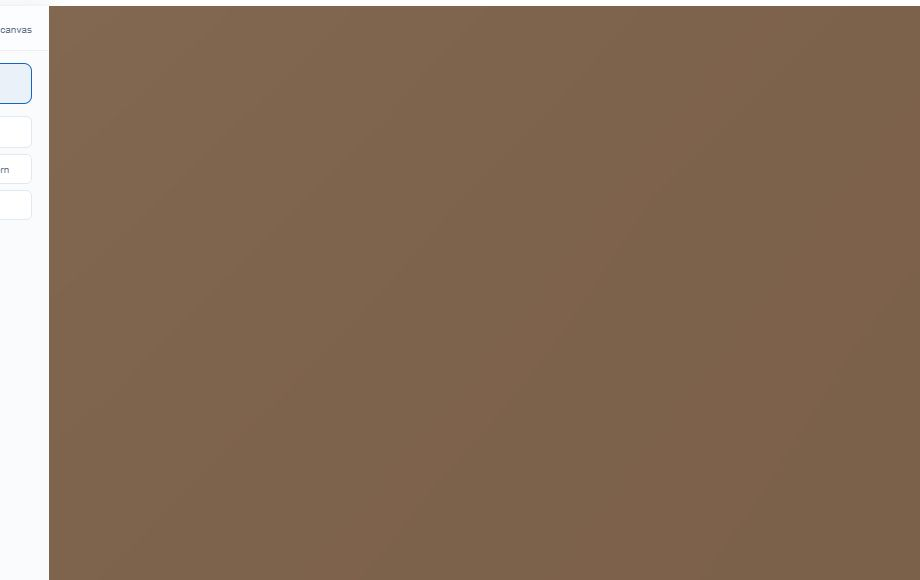
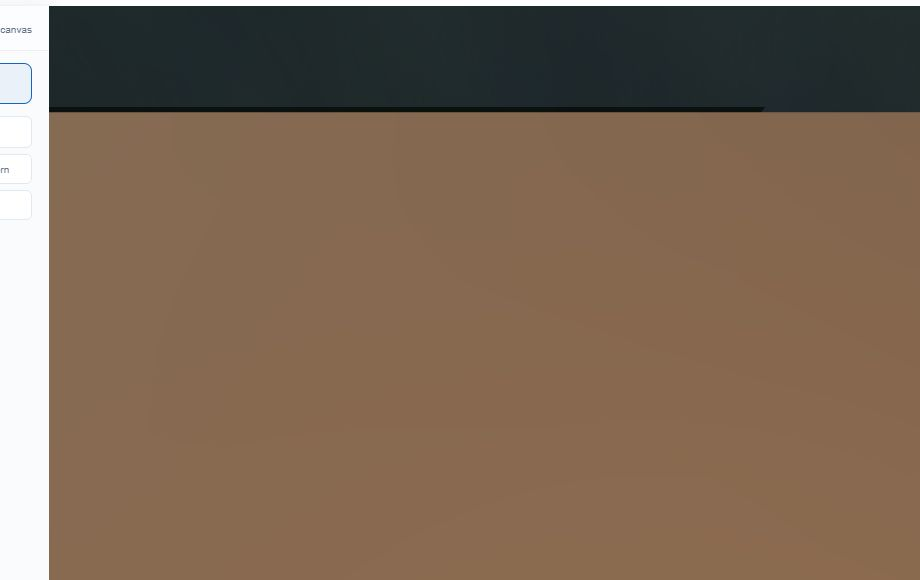
Fix camera right-click brown/blue screen bug + strengthen G15 gate
CameraFloorGuard now has 4 layers of defense:
1. Position Y >= 0.5 (existing)
2. Target Y >= 0.3 (raised from 0.0)
3. Viewing angle <= 70° downward (new — prevents ground-filling viewport)
4. Target XZ radius <= 40 from origin (new — prevents TRUCK panning out of scene)
Also reduced truckSpeed from 2.0 to 1.0 to limit pan aggression.

G15 gate now samples viewport pixels via readPixels to detect uniform
color (brown/blue screen) — passes only when multiple colors are visible.

Changed region(s): [[0.0304, 0.0, 1.0, 0.2172]]

diff --git a/src/components/three/Scene.tsx b/src/components/three/Scene.tsx
@@ -27,6 +27,9 @@ import {
   CAMERA_MAX_DISTANCE,
   CAMERA_FLOOR_Y,
   CAMERA_MOUSE_RIGHT,
+  CAMERA_TARGET_MIN_Y,
+  CAMERA_MAX_DOWNWARD_ANGLE,
+  CAMERA_TARGET_MAX_RADIUS,
 } from "@/config/cameraConstants";
 import { createDefaultVoxelGrid } from "@/types/factories";
 import { findStackTarget, findEdgeSnap, checkOverlap, getFootprintAt, computePoolUnion } from "@/store/spatialEngine";
@@ -796,7 +799,7 @@ function CameraTargetLerp({ desired }: { desired: [number, number, number] }) {
     // Exponential decay lerp — ~7× per second half-life feels like smooth glide
     _lerpTarget.lerp(_desiredTarget, 1 - Math.pow(0.001, delta));
     // Clamp target Y to prevent looking through ground
-    if (_lerpTarget.y < 0) _lerpTarget.y = 0;
+    if (_lerpTarget.y < CAMERA_TARGET_MIN_Y) _lerpTarget.y = CAMERA_TARGET_MIN_Y;
     ctrl.target.copy(_lerpTarget);
     ctrl.update();
   });
@@ -808,10 +811,11 @@ function CameraTargetLerp({ desired }: { desired: [number, number, number] }) {
  *
  * @remarks
  * PROTECTED SYSTEM — this is the primary defense against the "blue screen" bug.
- * Three things are clamped every frame:
+ * Four things are clamped every frame:
  * 1. Camera position Y >= CAMERA_FLOOR_Y (0.5m) — prevents camera inside ground
- * 2. Orbit target Y >= CAMERA_TARGET_MIN_Y (0.0m) — prevents looking through ground
- * 3. CameraTargetLerp also clamps its own lerp target (defense in depth)
+ * 2. Orbit target Y >= CAMERA_TARGET_MIN_Y (0.3m) — prevents looking through ground
+ * 3. Viewing angle <= CAMERA_MAX_DOWNWARD_ANGLE (70°) — prevents ground-filling viewport
+ * 4. CameraTargetLerp also clamps its own lerp target (defense in depth)
  *
  * Also sets mouseButtons on mount:
  * - right = TRUCK (pan, not orbit) — prevents orbit below ground
@@ -822,8 +826,6 @@ function CameraTargetLerp({ desired }: { desired: [number, number, number] }) {
  */
 const _floorGuardVec = new THREE.Vector3();
 const _targetGuardVec = new THREE.Vector3();
-/** Minimum orbit target Y — prevents looking through the ground (blue screen) */
-const CAMERA_TARGET_MIN_Y = 0.0;
 
 function CameraFloorGuard({ cameraControlsRef }: { cameraControlsRef: React.RefObject<CameraControlsImpl | null> }) {
   // Set right-click to TRUCK (pan) instead of ROTATE on mount
@@ -832,6 +834,8 @@ function CameraFloorGuard({ cameraControlsRef }: { cameraControlsRef: React.RefO
     if (!cc) return;
     cc.mouseButtons.right = CAMERA_MOUSE_RIGHT; // ACTION.TRUCK
     cc.mouseButtons.middle = CAMERA_MOUSE_RIGHT; // ACTION.TRUCK — middle drag also pans
+    // Reduce truck speed to prevent aggressive panning that loses sight of the scene
+    cc.truckSpeed = 1.0;
   }, [cameraControlsRef]);
 
   // WHY: Store last known-good position/target to recover from NaN.
@@ -868,6 +872,40 @@ function CameraFloorGuard({ cameraControlsRef }: { cameraControlsRef: React.RefO
     // Clamp orbit target Y
     if (_targetGuardVec.y < CAMERA_TARGET_MIN_Y) {
       cc.setTarget(_targetGuardVec.x, CAMERA_TARGET_MIN_Y, _targetGuardVec.z, false);
+      cc.getTarget(_targetGuardVec);
+    }
+
+    // Angle guard: prevent ground-filling viewport after TRUCK.
+    // If the camera→target vector is too steep downward, raise the target Y
+    // so the viewing angle stays within CAMERA_MAX_DOWNWARD_ANGLE (~70°).
+    const dy = _floorGuardVec.y - _targetGuardVec.y;
+    if (dy > 0) {
+      const dx = _floorGuardVec.x - _targetGuardVec.x;
+      const dz = _floorGuardVec.z - _targetGuardVec.z;
+      const horizDist = Math.sqrt(dx * dx + dz * dz);
+      const downAngle = Math.atan2(dy, horizDist);
+      if (downAngle > CAMERA_MAX_DOWNWARD_ANGLE) {
+        // Raise target Y so angle equals max
+        const newDy = horizDist * Math.tan(CAMERA_MAX_DOWNWARD_ANGLE);
+        const newTargetY = Math.max(_floorGuardVec.y - newDy, CAMERA_TARGET_MIN_Y);
+        cc.setTarget(_targetGuardVec.x, newTargetY, _targetGuardVec.z, false);
+        cc.getTarget(_targetGuardVec);
+      }
+    }
+
+    // XZ radius clamp: prevent TRUCK from panning camera out of sight of the scene.
+    // If target drifts too far from origin, clamp it back to the max radius.
+    const targetR = Math.sqrt(_targetGuardVec.x * _targetGuardVec.x + _targetGuardVec.z * _targetGuardVec.z);
+    if (targetR > CAMERA_TARGET_MAX_RADIUS) {
+      const scale = CAMERA_TARGET_MAX_RADIUS / targetR;
+      const clampedX = _targetGuardVec.x * scale;
+      const clampedZ = _targetGuardVec.z * scale;
+      // Move both target and position by the same offset to preserve viewing angle
+      const offsetX = clampedX - _targetGuardVec.x;
+      const offsetZ = clampedZ - _targetGuardVec.z;
+      cc.setTarget(clampedX, _targetGuardVec.y, clampedZ, false);
+      cc.setPosition(_floorGuardVec.x + offsetX, _floorGuardVec.y, _floorGuardVec.z + offsetZ, false);
+      cc.getPosition(_floorGuardVec);
       cc.getTarget(_targetGuardVec);
     }
 

diff --git a/src/config/cameraConstants.ts b/src/config/cameraConstants.ts
@@ -9,5 +9,14 @@ export const CAMERA_MIN_DISTANCE = 3;
 export const CAMERA_MAX_DISTANCE = 120;
 /** Minimum camera Y position (floor guard clamps below this) */
 export const CAMERA_FLOOR_Y = 0.5;
+/** Minimum orbit target Y — prevents looking through the ground */
+export const CAMERA_TARGET_MIN_Y = 0.3;
+/** Maximum downward viewing angle in radians (~70°). Prevents ground-filling viewport after TRUCK. */
+export const CAMERA_MAX_DOWNWARD_ANGLE = 70 * (Math.PI / 180);
 /** camera-controls ACTION.TRUCK = 2 (right-click pans instead of rotates) */
 export const CAMERA_MOUSE_RIGHT = 2;
+/** Maximum distance the orbit target can drift from origin XZ before clamping.
+ * Prevents right-drag TRUCK from panning camera out of sight of the scene.
+ * Must be generous enough for multi-container layouts but tight enough to
+ * prevent losing the scene entirely. */
+export const CAMERA_TARGET_MAX_RADIUS = 40;
